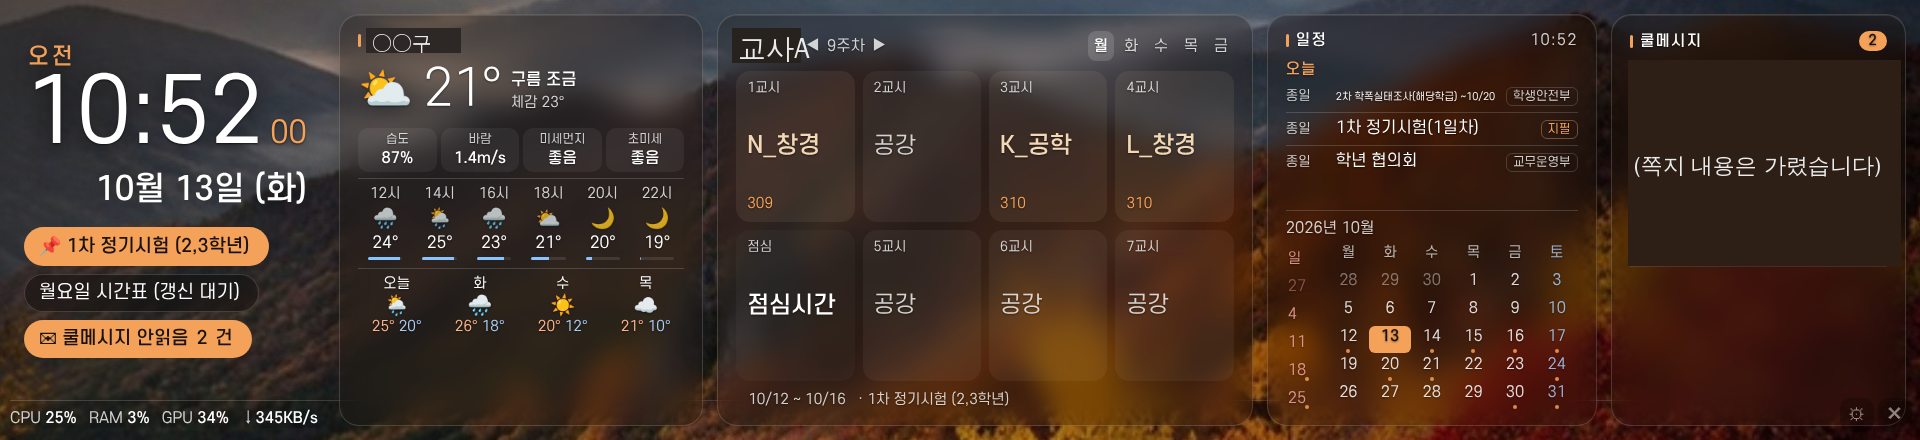
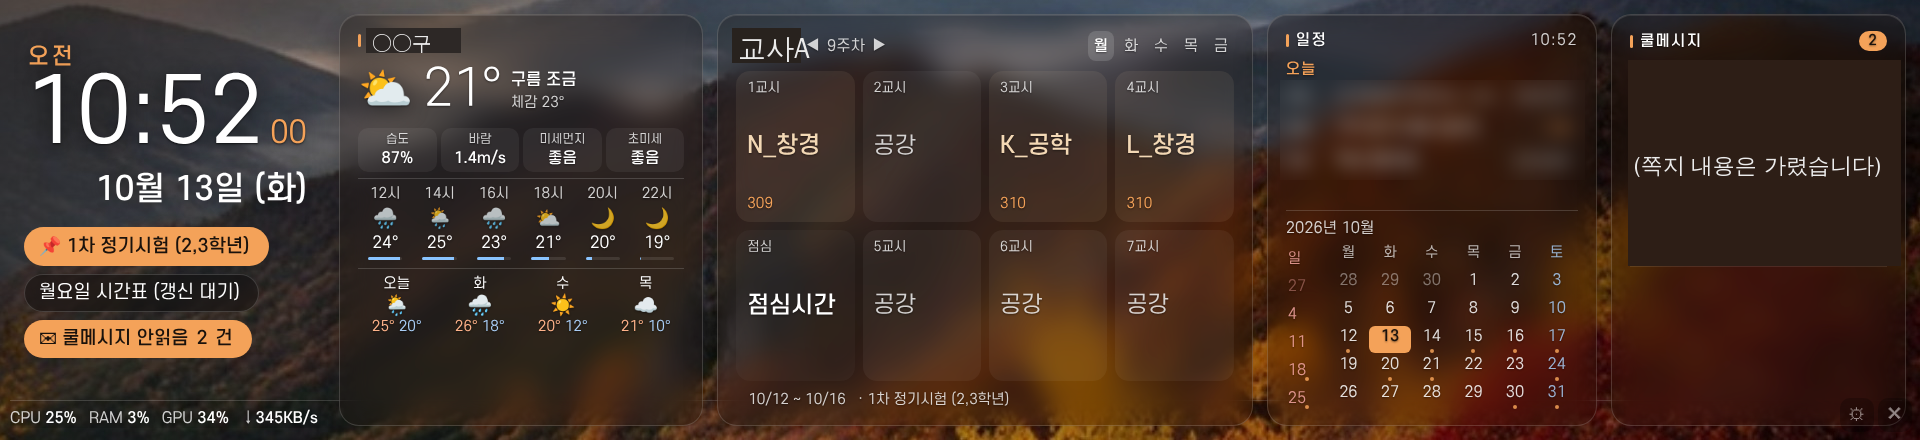
3차 수정(편집장 몫): 캡처 확대·가림, 표지 겹침, 표 쪽 나눔
Claude-Session: https://claude.ai/code/session_014HkaF8HTvrNt4wvFiLPeJx

Changed region(s): [[0.6562, 0.2068, 0.8438, 0.3841], [0.7812, 0.3545, 0.8438, 0.3841]]

diff --git a/training/pdf/shell.html b/training/pdf/shell.html
@@ -30,7 +30,7 @@ h4{font-family:var(--fd);font-weight:700;font-size:11.5pt;margin:0 0 3pt;break-a
 .cover .k{font-family:var(--fd);font-weight:700;font-size:11pt;letter-spacing:.14em;color:var(--mark)}
 .cover h1{font-family:var(--fd);font-weight:900;font-size:40pt;line-height:1.18;margin:14pt 0 16pt;letter-spacing:-.01em}
 .cover h1 span{color:var(--mark)}
-.cover .lead{font-size:13pt;line-height:1.7;color:#C7D3CE;max-width:140mm}
+.cover .lead{font-size:13pt;line-height:1.7;color:#C7D3CE;max-width:100mm}
 .cover .phone{position:absolute;right:22mm;bottom:52mm;width:62mm;height:110mm;border:2.2pt solid #46524E;border-radius:9mm;padding:9mm 6mm;display:flex;flex-direction:column;gap:5mm}
 .cover .phone div{border-radius:3mm;background:#2B3431;padding:4mm;font-size:9.5pt;line-height:1.5}
 .cover .phone div.me{background:var(--mark);color:#2A2200;align-self:flex-end;max-width:85%}
@@ -131,6 +131,10 @@ h3+*,h4+*{break-before:avoid}
 .reel .clip .io{font-size:9.6pt;color:#3E4844}
 .reel .sub,.toc td.d{font-size:10.5pt;color:#3E4844}
 figcaption{font-size:10pt;color:#3E4844;padding:0 2pt}
+
+table.tbl{break-inside:auto;page-break-inside:auto}
+thead{display:table-header-group}
+td:first-child,th:first-child{word-break:keep-all}
 </style>
 </head>
 <body>
